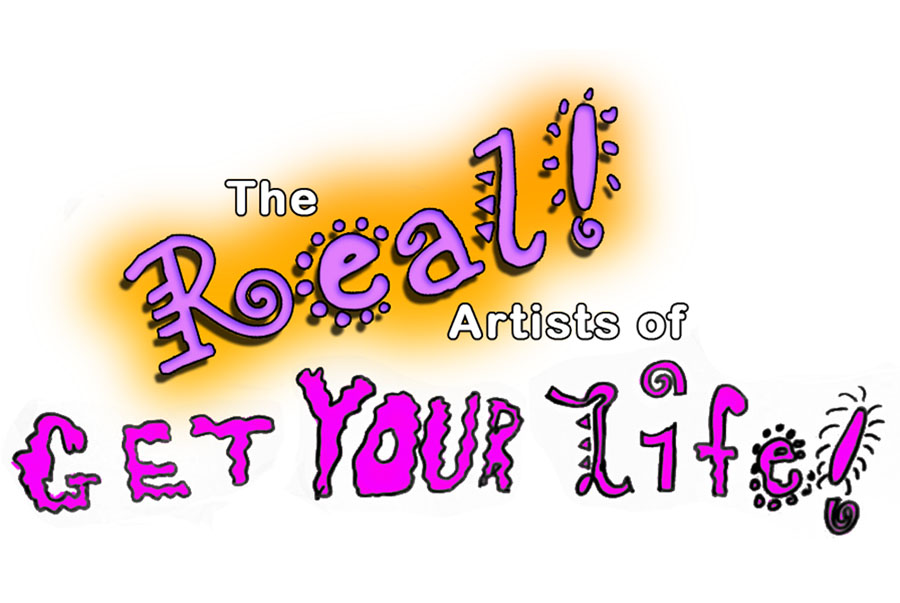
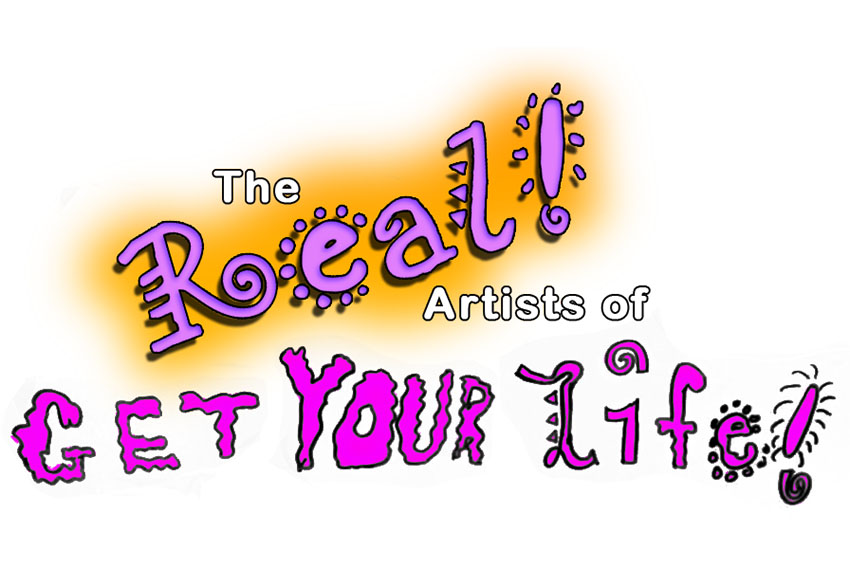
updates to images to prevent pixelation

diff --git a/ch9.html b/ch9.html
@@ -71,9 +71,9 @@
 			</div>
 
 			<div class="content-container no-border">
-				<img class="full-image web" src="img/ch9/10.jpg">
-				<img class="full-image middle" src="img/ch9/10-middle.jpg">
-				<img class="full-image mobile" src="img/ch9/10-mobile.jpg">
+				<img class="gyl-image web" src="img/ch9/10.jpg">
+				<img class="gyl-image middle" src="img/ch9/10-middle.jpg">
+				<img class="gyl-image mobile" src="img/ch9/10-mobile.jpg">
 			</div>
 
 			<div class="content-container">

diff --git a/css/ch9.css b/css/ch9.css
@@ -96,6 +96,12 @@
 		IMG STYLING
 	============================= */
 
+.gyl-image {
+	width: 80%;
+	margin-left: 10%;
+	margin-top: -40px;
+}
+
 .left img,
 .right img {
 	width: 100%;
